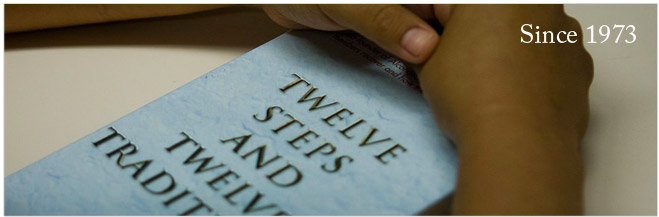
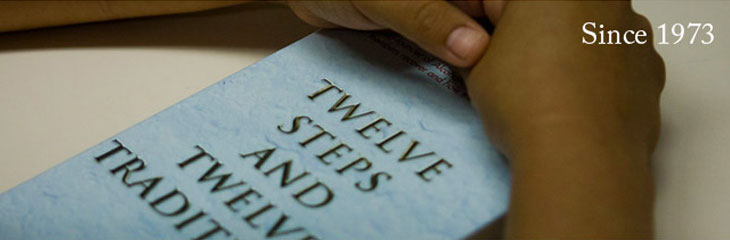
Enlarge about_heading_image.jpg to fill 100% column width

diff --git a/css/style.css b/css/style.css
@@ -178,7 +178,8 @@ ul.side-nav li a {
 
 .authorText { color: #e4e2e3; }
 
-img.facebook-module {
+img.facebook-module,
+img.img-responsive {
     width: 100%;
     height: auto;
 }
